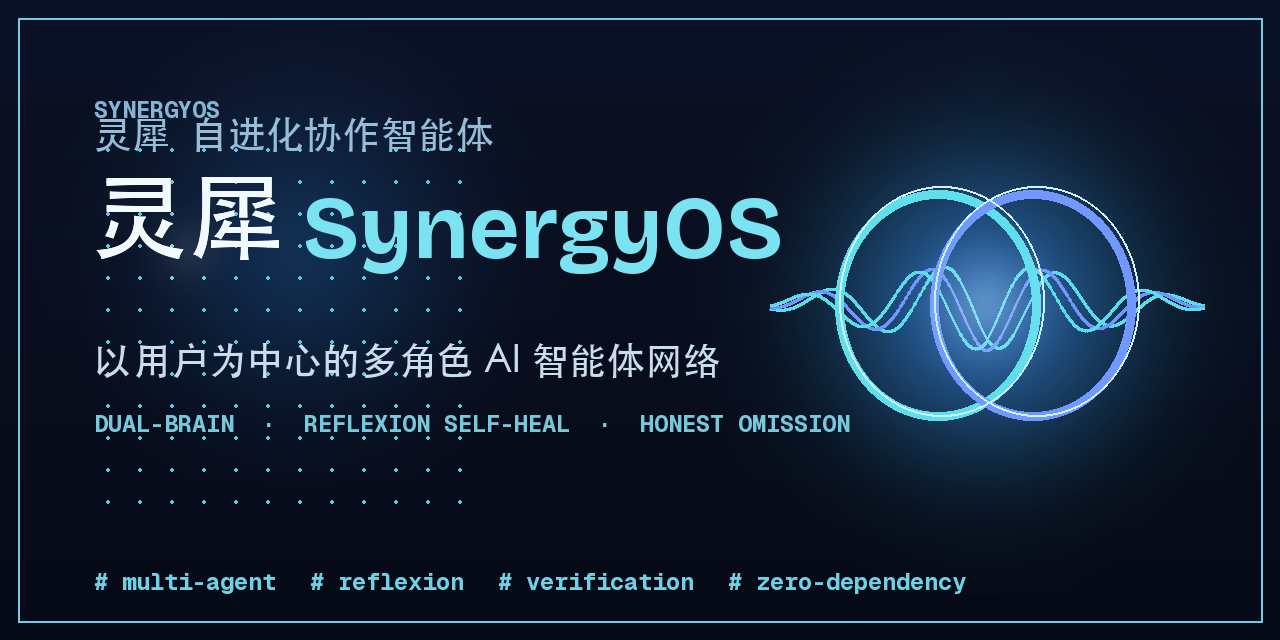
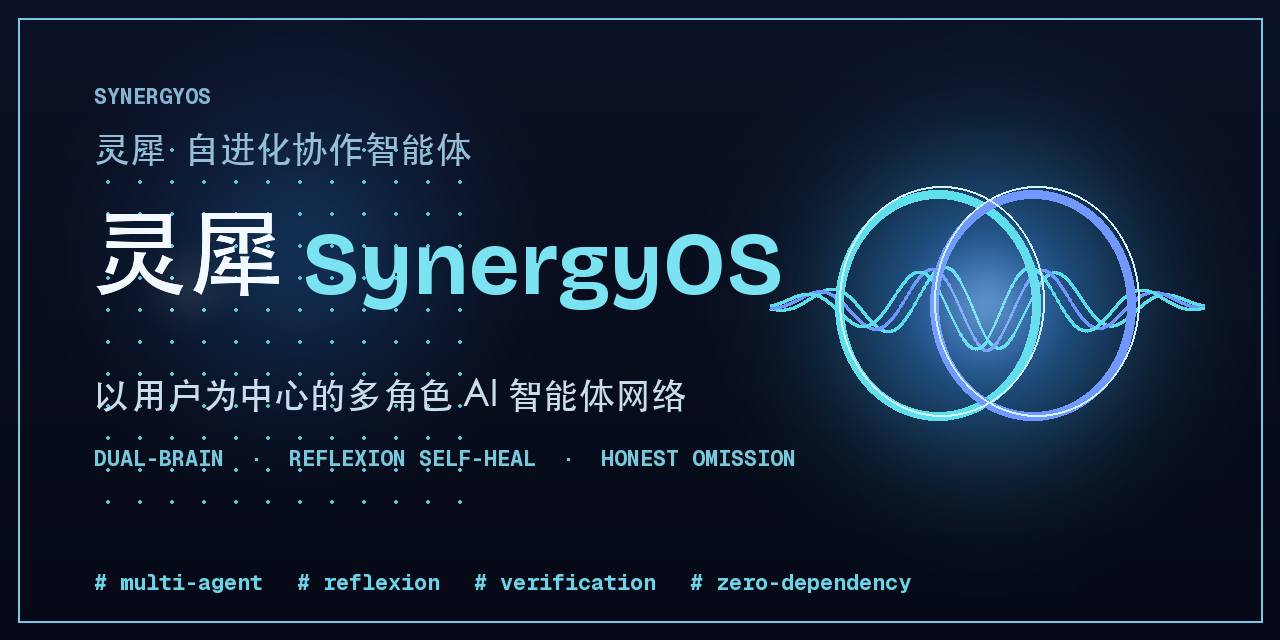
assets: 调整 social-preview 顶部文字间距，避免 SYNERGYOS 与中文行重叠

Changed region(s): [[0.0625, 0.125, 0.625, 0.5], [0.0625, 0.5312, 0.6875, 0.75], [0.0938, 0.875, 0.75, 0.9375]]

diff --git a/assets/gen_social.py b/assets/gen_social.py
@@ -75,19 +75,19 @@ def fnt(path, size, index=0):
     return ImageFont.truetype(path, size, index=index)
 
 zh, en = fnt(ZH, 96, 1), fnt(EN_TITLE, 88)
-zh_sub, mono = fnt(ZH, 38, 1), fnt(MONO, 24)
+zh_sub, mono = fnt(ZH, 36, 1), fnt(MONO, 22)
 
-draw.text((94, 118), "SYNERGYOS", font=mono, fill=(132, 182, 212, 185), anchor="ls")
-draw.text((94, 148), "灵犀  自进化协作智能体", font=zh_sub, fill=(150, 190, 216, 185), anchor="ls")
+draw.text((94, 104), "SYNERGYOS", font=mono, fill=(132, 182, 212, 185), anchor="ls")
+draw.text((94, 162), "灵犀  自进化协作智能体", font=zh_sub, fill=(150, 190, 216, 185), anchor="ls")
 
-draw.text((92, 250), "灵犀", font=zh, fill=(242, 249, 255, 255), anchor="ls")
+draw.text((92, 286), "灵犀", font=zh, fill=(242, 249, 255, 255), anchor="ls")
 lw = draw.textlength("灵犀", font=zh)
-add_glow(92 + int(lw / 2), 250, 120, (255, 255, 255), 28)
-draw.text((92, 250), "灵犀", font=zh, fill=(242, 249, 255, 255), anchor="ls")
-draw.text((92 + lw + 18, 258), "SynergyOS", font=en, fill=(122, 226, 240, 255), anchor="ls")
+add_glow(92 + int(lw / 2), 286, 120, (255, 255, 255), 28)
+draw.text((92, 286), "灵犀", font=zh, fill=(242, 249, 255, 255), anchor="ls")
+draw.text((92 + lw + 18, 294), "SynergyOS", font=en, fill=(122, 226, 240, 255), anchor="ls")
 
-draw.text((94, 374), "以用户为中心的多角色 AI 智能体网络", font=zh_sub, fill=(202, 221, 236, 235), anchor="ls")
-draw.text((94, 432), "DUAL-BRAIN  ·  REFLEXION SELF-HEAL  ·  HONEST OMISSION", font=mono, fill=(120, 200, 220, 210), anchor="ls")
+draw.text((94, 408), "以用户为中心的多角色 AI 智能体网络", font=zh_sub, fill=(202, 221, 236, 235), anchor="ls")
+draw.text((94, 466), "DUAL-BRAIN  ·  REFLEXION SELF-HEAL  ·  HONEST OMISSION", font=mono, fill=(120, 200, 220, 210), anchor="ls")
 
 x = 94
 for lb in ["# multi-agent", "# reflexion", "# verification", "# zero-dependency"]:
